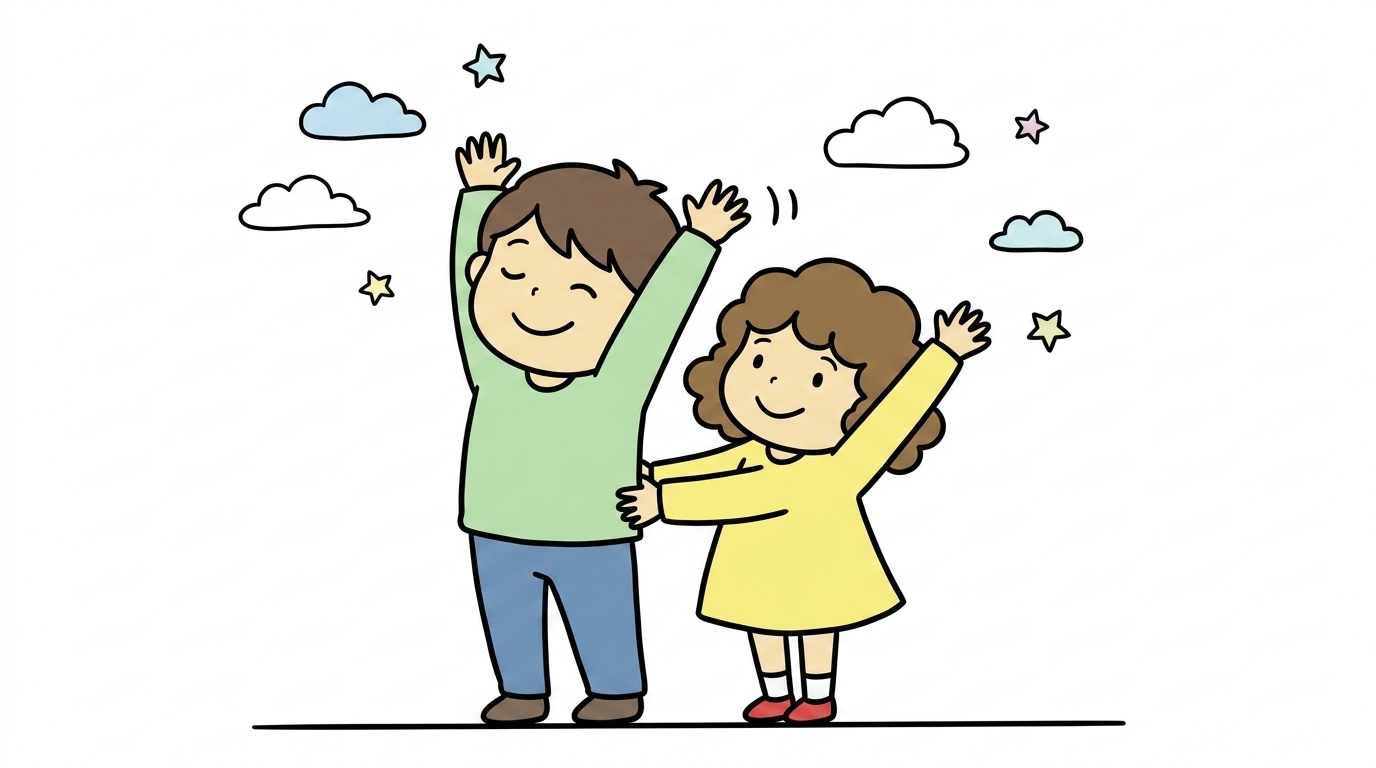
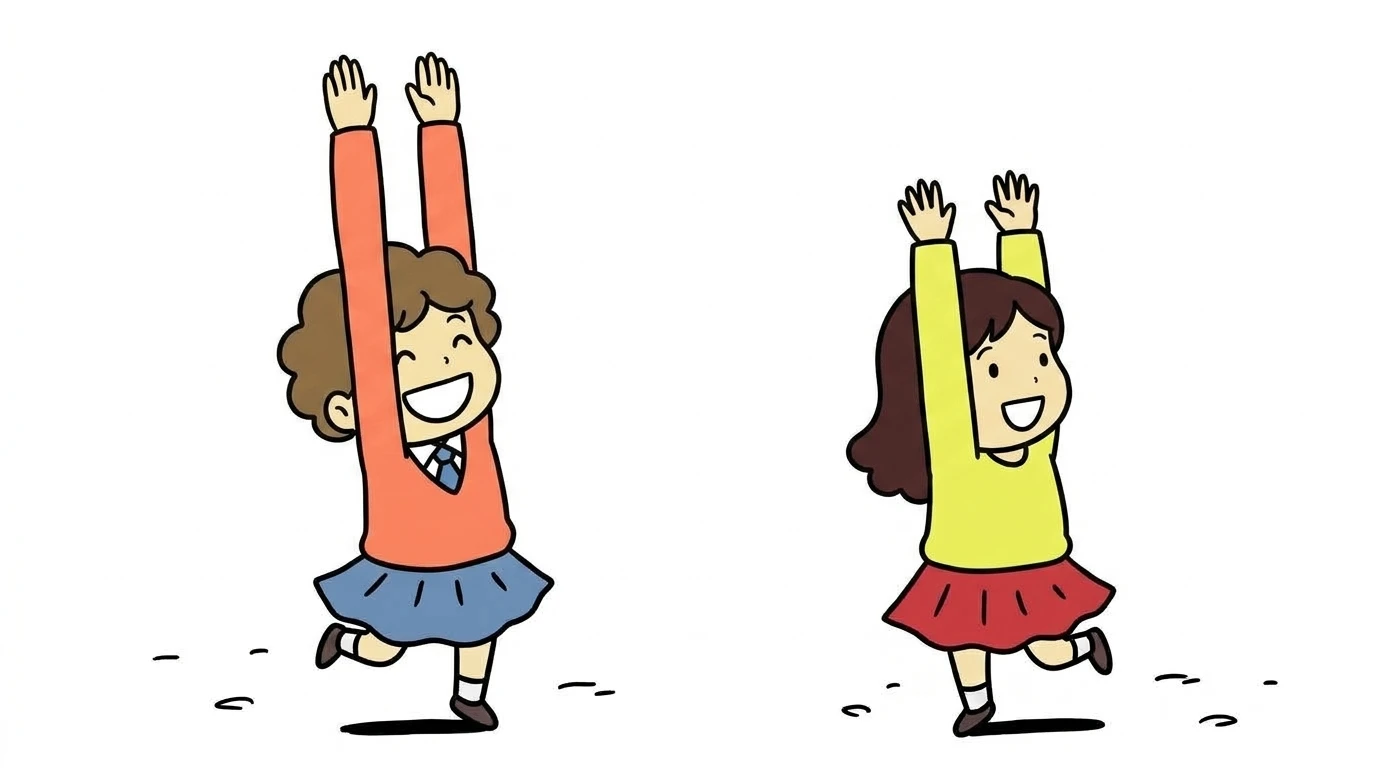
fix: 「親子ストレッチトレイン」(act_020)のイラストを修正（手の本数を正常化・両手背伸びポーズ）

diff --git a/build/web/flutter_bootstrap.js b/build/web/flutter_bootstrap.js
@@ -37,6 +37,6 @@ _flutter.buildConfig = {"engineRevision":"0cd610717bde95fd88343c64f81c11ba4e5c00
 
 _flutter.loader.load({
   serviceWorkerSettings: {
-    serviceWorkerVersion: "312215021" /* Flutter's service worker is deprecated and will be removed in a future Flutter release. */
+    serviceWorkerVersion: "1204531773" /* Flutter's service worker is deprecated and will be removed in a future Flutter release. */
   }
 });
